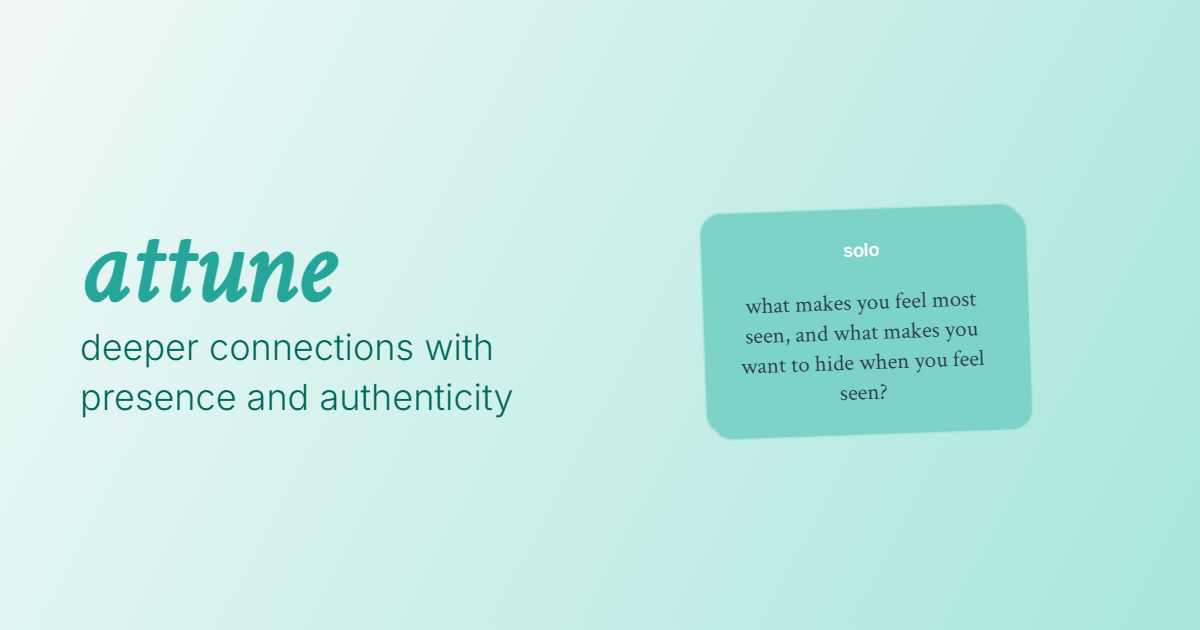
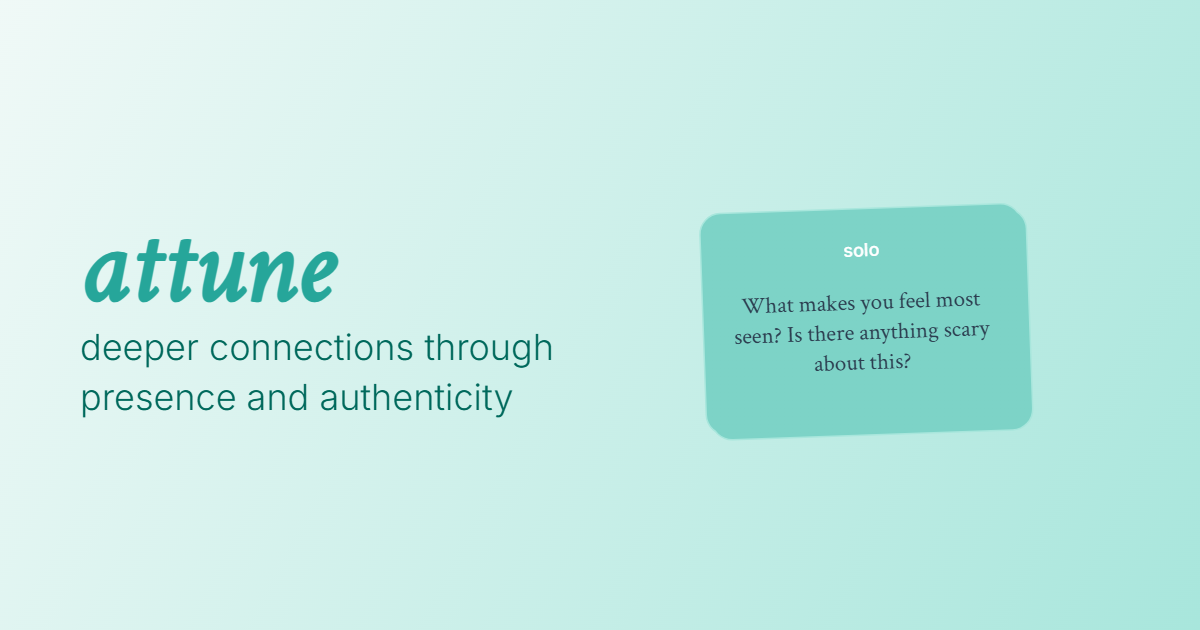
commit

Changed region(s): [[0.6167, 0.4524, 0.8325, 0.6333], [0.3392, 0.5127, 0.4625, 0.573]]

diff --git a/attune/app.js b/attune/app.js
@@ -28,7 +28,7 @@ const QUESTIONS = [
         you: "What's something you imagine everyone here understands about you, without having to explain it?"
     },
     {
-        you: "Is there something you do or feel which alternates bewteen two extremes? Does each extreme protect you from anything?"
+        you: "Is there something you do or feel which alternates between two extremes? Does each extreme protect you from anything?"
     },
     {
         you: "Describe a recent moment when you caught yourself acting automatically. What was driving that automaticity?"
@@ -263,7 +263,10 @@ const QUESTIONS = [
         you: "If everyone were to treat you the way you treat yourself, how would you want that to be? Do you treat yourself this way now?"
     },
     {
-        you: "When have you been a 'good person' (mature, disciplined etc) beyond what felt true for you? What happened as a result? Did this cost you anything?"
+        you: "When have you acted or presented yourself as 'more ideal' (mature, disciplined etc) beyond what felt true for you? What happened as a result? Did this cost you anything?"
+    },
+    {
+        you: "When have you acted or presented yourself as 'less ideal' (unintelligent, immature, immoral etc) beyond what felt true for you? What happened as a result? Did this cost you anything?"
     },
     {
         you: "What do you want for your future, that you are sacrificing something now for? What do you want and what are you sacrificing?"
@@ -404,9 +407,21 @@ const QUESTIONS = [
         you: "Speak about a time you related to someone as you imagined them, rather than as they actually were."
     },
     {
-        you: "Tell your partner what you think is different about who they are as a person, between when you first met them, and now.",
-        partner: "Tell your partner something which is actually different."
+        you: "What truth about yourself are you still learning to accept?"
     },
+    {
+        you: "What do you wish someone would ask you about?"
+    },
+    {
+        you: "What part of your past self do you miss most?"
+    },
+    {
+        you: "What part of yourself do you hide from the people closest to you?"
+    },
+    {
+        you: "What do you pretend to understand but actually find confusing?"
+    },
+    
 
     
 
@@ -419,7 +434,7 @@ const QUESTIONS = [
 
 
     {
-        you: "Speak about a spitiual experience which changed your life."
+        you: "Speak about a spiritual experience which changed your life."
     },
     {
         you: "What would you say to your younger self?"

diff --git a/attune/social-preview-generator.html b/attune/social-preview-generator.html
@@ -255,7 +255,7 @@
             // Draw tagline
             ctx.fillStyle = '#00695c';
             ctx.font = '300 36px "Inter", sans-serif';
-            ctx.fillText('deeper connections with', 80, 360);
+            ctx.fillText('deeper connections through', 80, 360);
             ctx.fillText('presence and authenticity', 80, 410);
             
             // Draw begin button
@@ -313,7 +313,7 @@
             ctx.textAlign = 'center';
             
             // Wrap text manually
-            const text = 'what makes you feel most seen, and what makes you want to hide when you feel seen?';
+            const text = "What makes you feel most seen? Is there anything scary about this?";
             const words = text.split(' ');
             let line = '';
             let y = 100;

diff --git a/attune/index.html b/attune/index.html
@@ -46,7 +46,7 @@
         <div id="start-screen" class="screen active">
             <div class="start-content">
                 <h1 class="game-title">attune</h1>
-                <p class="game-subtitle">deepen connections with presence and authenticity</p>
+                <p class="game-subtitle">deeper connections through presence and authenticity</p>
                 <button id="begin-btn" class="primary-btn">begin</button>
             </div>
         </div>
